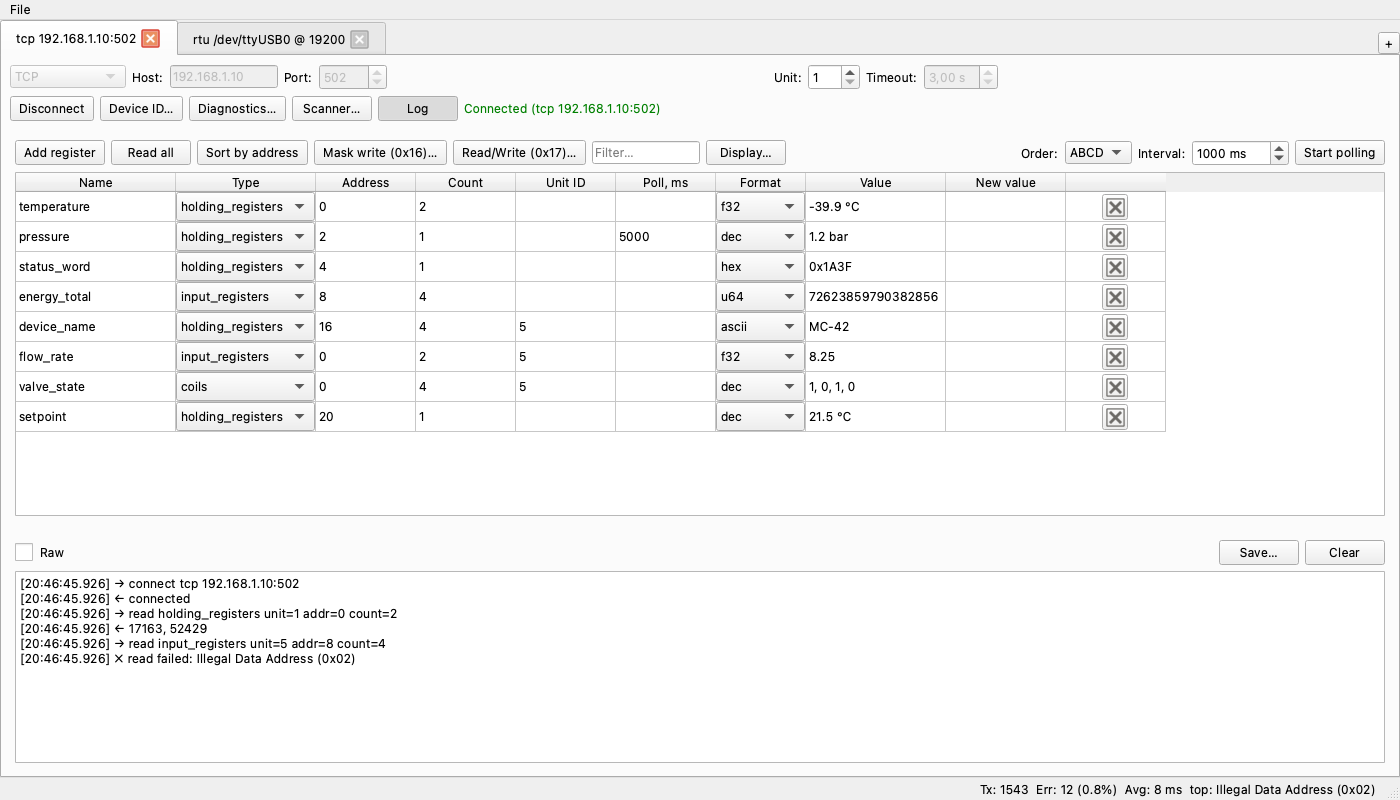
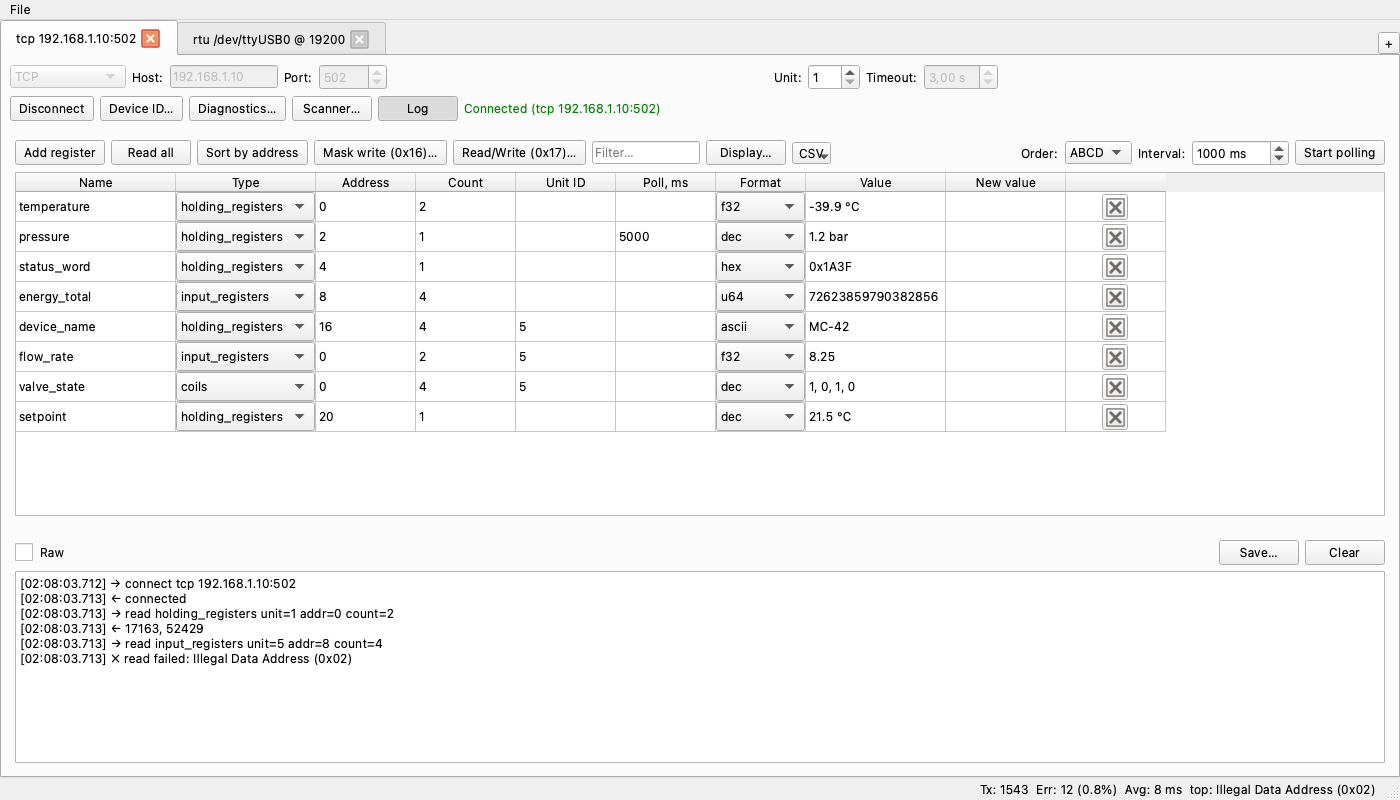
Add CSV dialog screenshots and refresh the main window shot

Changed region(s): [[0.0, 0.7188, 0.2764, 0.8438], [0.5529, 0.1875, 0.5836, 0.2188]]

diff --git a/README.md b/README.md
@@ -55,6 +55,15 @@ register row (the "Display…" button above the table):
 
 ![Display settings](docs/screenshots/display_dialog.png)
 
+CSV export — choose which columns to write and their order (the "CSV" button
+above the table):
+
+![CSV export](docs/screenshots/export_dialog.png)
+
+CSV import — map file columns to register fields before loading the table:
+
+![CSV import](docs/screenshots/import_dialog.png)
+
 Address scanner — unit sweep with probes and the register address scan:
 
 ![Scanner](docs/screenshots/scanner.png)
